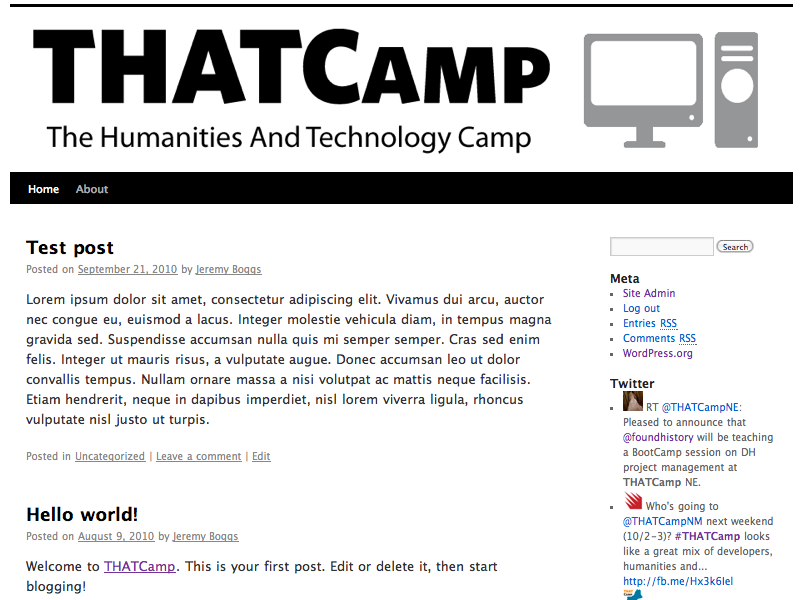
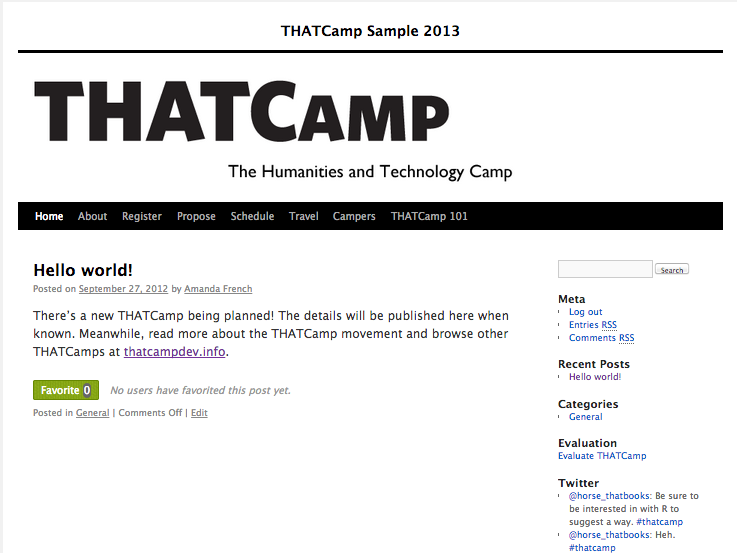
Modifies theme THATCamp TwentyTen header image

diff --git a/wp-content/themes/thatcamp-twentyten/style.css b/wp-content/themes/thatcamp-twentyten/style.css
@@ -47,6 +47,16 @@ input[type=submit] { font-family: "Lucida Grande", Arial, Helvetica, sans-serif;
 pre { font-family: "Courier 10 Pitch", Courier, monospace; }
 code { font-family: Monaco, Consolas, "Andale Mono", "DejaVu Sans Mono", monospace; }
 
+
+/* Header */
+
+#site-title {
+width: 100%;
+font-size: large;
+line-height: 1rem;
+text-align: center;
+}
+
 /* Comments */
 
 .commentlist li.comment
@@ -119,19 +129,3 @@ margin: 25px;
 width: 90%; 
 }
 
-/* Twitter items */
-
-li .twitter-item {
-display: block;
-float: left; 
-list-style: none;
-margin-top: 1em;
-margin-left: -.25em;
-margin-bottom: .5em;
-}
-
-li .twitter-item img {
-float: left;
-margin-right: .5em;
-margin-top: .5em; 
-}

diff --git a/wp-content/themes/thatcamp-twentyten/functions.php b/wp-content/themes/thatcamp-twentyten/functions.php
@@ -20,51 +20,20 @@ function jorbin_remove_twenty_ten_headers(){
 add_action( 'after_setup_theme', 'jorbin_remove_twenty_ten_headers', 11 );
 
 define('thatcamp_twentyten_dir', get_bloginfo('stylesheet_directory'));
-define( 'HEADER_IMAGE', thatcamp_twentyten_dir . '/images/headers/thatcamp-white.png' );
+define( 'HEADER_IMAGE', thatcamp_twentyten_dir . '/images/thatcamp-twentyten-header.png' );
 
 function thatcamp_twentyten_setup() {
 
            register_default_headers( array(
 		'thatcamp-default' => array(
-			'url' => thatcamp_twentyten_dir . '/images/headers/thatcamp-white.png',
-			'thumbnail_url' => thatcamp_twentyten_dir . '/images/headers/thatcamp-white-thumbnail.png',
+			'url' => thatcamp_twentyten_dir . '/images/thatcamp-twentyten-header.png',
+			'thumbnail_url' => thatcamp_twentyten_dir . '/images/thatcamp-twentyten-thumbnail.png',
 			/* translators: header image description */
-			'description' => __( 'THATCamp White', 'twentyten' )
-//		),
-//		'thatcamp-purple' => array(
-//			'url' => thatcamp_twentyten_dir . '/images/headers/thatcamp-purple.png',
-//			'thumbnail_url' => thatcamp_twentyten_dir . '/images/headers/thatcamp-purple-thumbnail.png',
-//			/* translators: header image description */
-//			'description' => __( 'THATCamp Purple', 'twentyten' )
-//		),
-//		'thatcamp-green' => array(
-//			'url' => thatcamp_twentyten_dir . '/images/headers/thatcamp-green.png',
-//			'thumbnail_url' => thatcamp_twentyten_dir . '/images/headers/thatcamp-green-thumbnail.png',
-//			/* translators: header image description */
-//			'description' => __( 'THATCamp Green', 'twentyten' )
-//		),
-//		'thatcamp-blue' => array(
-//			'url' => thatcamp_twentyten_dir . '/images/headers/thatcamp-blue.png',
-//			'thumbnail_url' => thatcamp_twentyten_dir . '/images/headers/thatcamp-blue-thumbnail.png',
-//			/* translators: header image description */
-//			'description' => __( 'THATCamp Blue', 'twentyten' )
-//		),
-//		'thatcamp-red' => array(
-//			'url' => thatcamp_twentyten_dir . '/images/headers/thatcamp-red.png',
-//			'thumbnail_url' => thatcamp_twentyten_dir . '/images/headers/thatcamp-red-thumbnail.png',
-//			/* translators: header image description */
-//			'description' => __( 'THATCamp Red', 'twentyten' )
-//		),
-//		'thatcamp-brown' => array(
-//			'url' => thatcamp_twentyten_dir . '/images/headers/thatcamp-brown.png',
-//			'thumbnail_url' => thatcamp_twentyten_dir . '/images/headers/thatcamp-brown-thumbnail.png',
-//			/* translators: header image description */
-//			'description' => __( 'THATCamp Brown', 'twentyten' )
+			'description' => __( 'THATCamp TwentyTen Default Header', 'twentyten' )
 		)		
 	) );
 }
 
 add_action( 'after_setup_theme', 'thatcamp_twentyten_setup' );
-
 
 ?>

diff --git a/wp-content/themes/thatcamp-twentyten/header.php b/wp-content/themes/thatcamp-twentyten/header.php
@@ -58,13 +58,12 @@
 		<div id="masthead">
 			<div id="branding" role="banner">
 				<?php $heading_tag = ( is_home() || is_front_page() ) ? 'h1' : 'div'; ?>
-<!--				<<?php echo $heading_tag; ?> id="site-title">
+				<<?php echo $heading_tag; ?> id="site-title">
 					<span>
 						<a href="<?php echo home_url( '/' ); ?>" title="<?php echo esc_attr( get_bloginfo( 'name', 'display' ) ); ?>" rel="home"><?php bloginfo( 'name' ); ?></a>
 					</span>
 				</<?php echo $heading_tag; ?>>
-				<div id="site-description"><?php bloginfo( 'description' ); ?></div>
--->
+
 				<?php
 					// Check if this is a post or page, if it has a thumbnail, and if it's a big one
 					if ( is_singular() &&
@@ -74,7 +73,7 @@
 						// Houston, we have a new header image!
 						echo get_the_post_thumbnail( $post->ID, 'post-thumbnail' );
 					else : ?>
-						<a href="<?php echo home_url( '/' ); ?>" title="<?php echo esc_attr( get_bloginfo( 'name', 'display' ) ); ?>" rel="home"><img src="<?php header_image(); ?>" width="<?php echo HEADER_IMAGE_WIDTH; ?>" height="<?php echo HEADER_IMAGE_HEIGHT; ?>" alt="" /></a>
+						<div id="header-image"><a href="<?php echo home_url( '/' ); ?>" title="<?php echo esc_attr( get_bloginfo( 'name', 'display' ) ); ?>" rel="home"><img src="<?php header_image(); ?>" width="<?php echo HEADER_IMAGE_WIDTH; ?>" height="<?php echo HEADER_IMAGE_HEIGHT; ?>" alt="" /></a></div>
 					<?php endif; ?>
 			</div><!-- #branding -->
 
